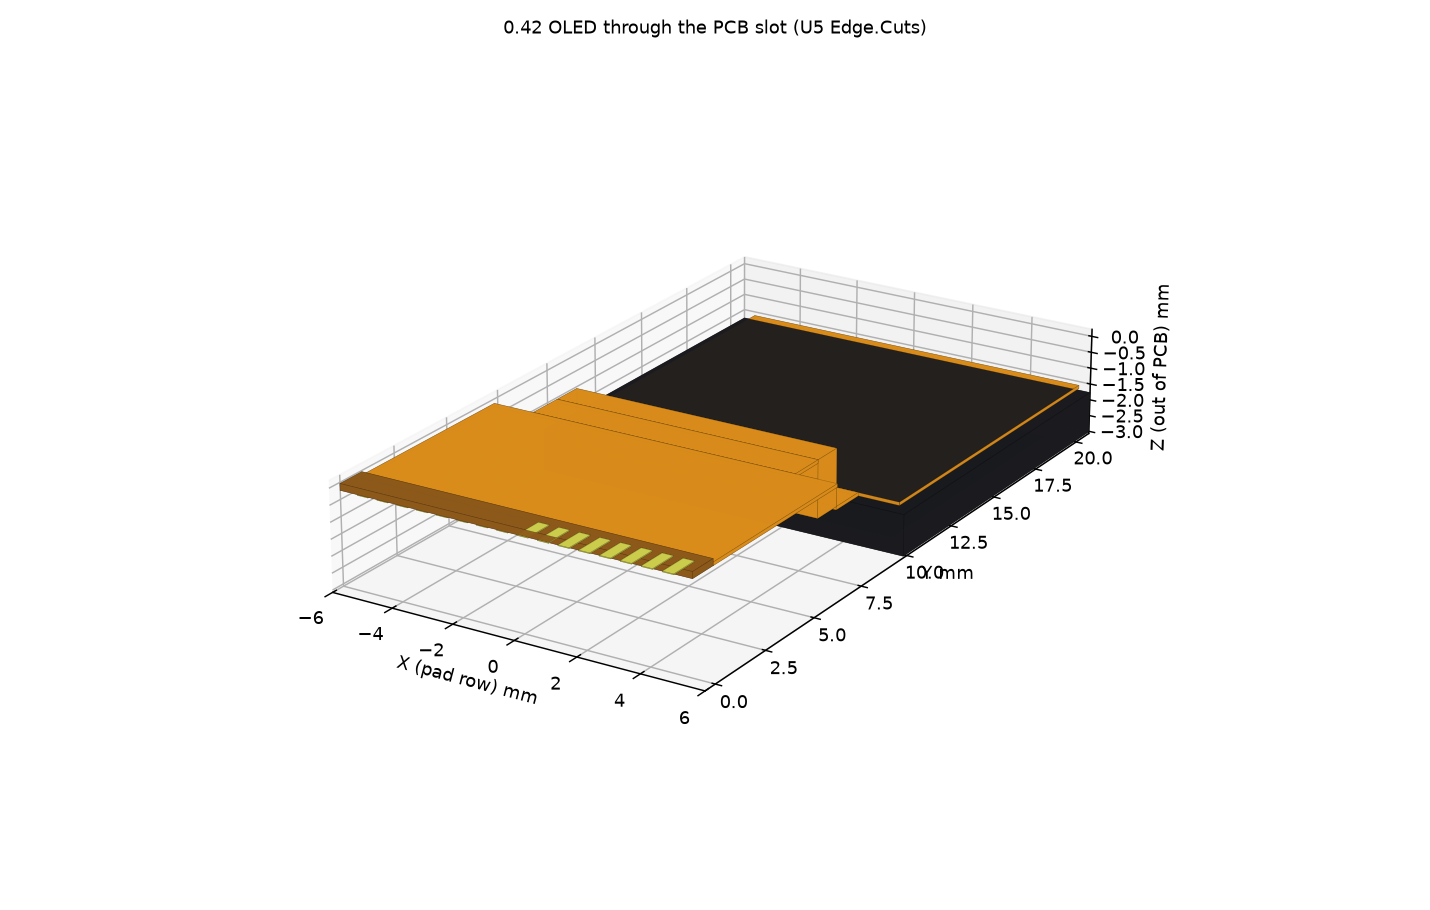
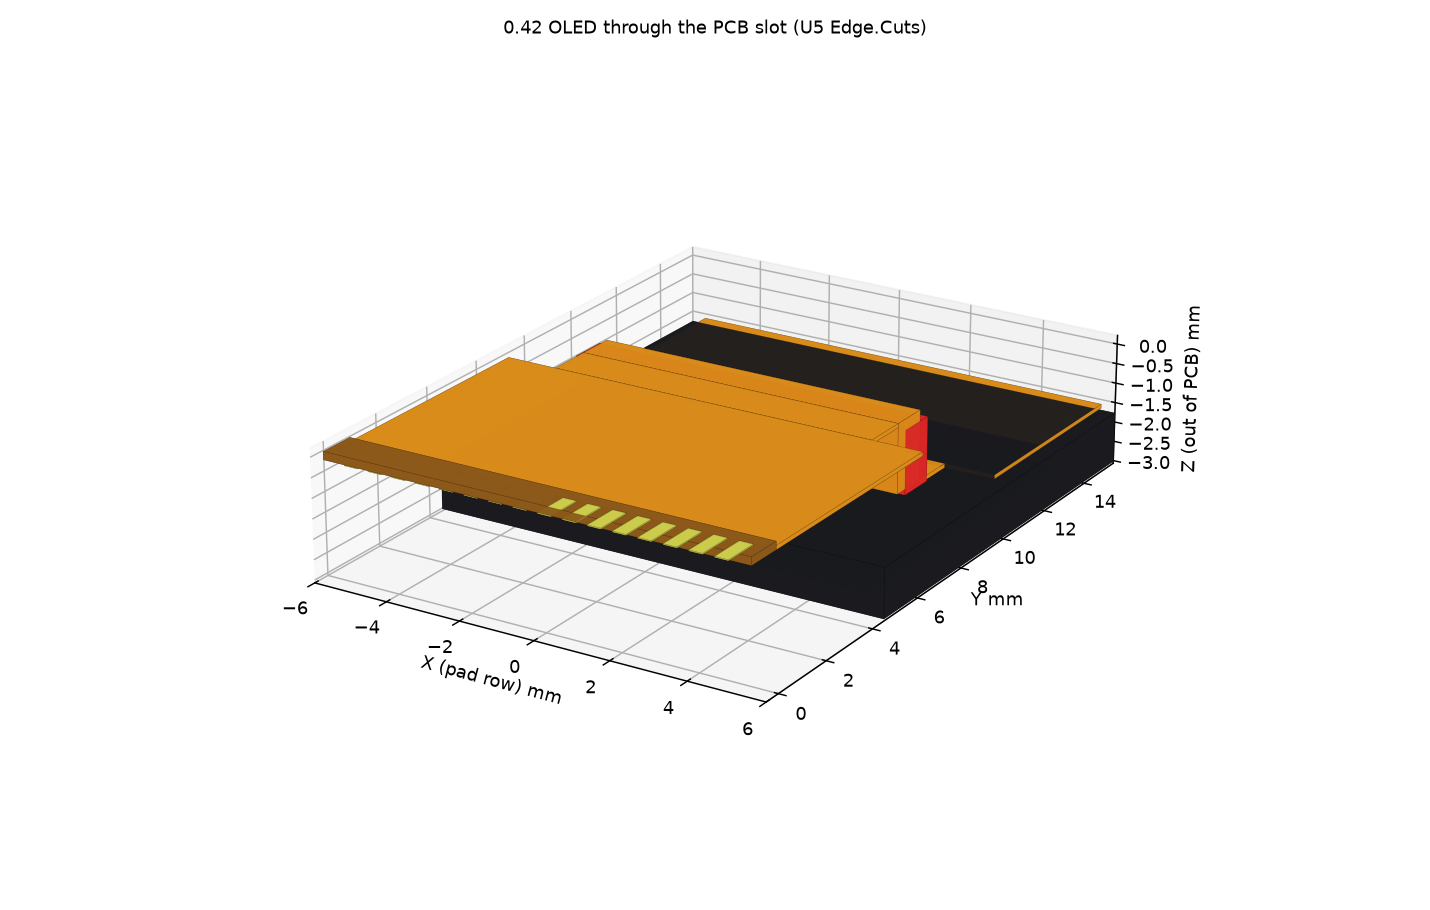
3d: OLED panel now sits OVER the board slot (centre 10 mm from the pads)
Previously the panel started 0.8 mm past the slot, so in 3D the opening showed
next to the panel. Correct arrangement: the FPC passes through the slot and the
glass is glued over it, hiding the opening.

  panel local y 4.5 .. 15.5  (centre 10.0 mm from the pad row, per the annotation
                              r = 10 mm / theta = 0 deg)
  slot  local y 8.0 .. 9.0, x -4.5 .. 4.5  -> fully covered by the 12 x 11 panel
  FPC: pads -> narrow to 8.6 mm -> through the slot -> far side under the glass

Preview now draws the slot in red so the coverage can be checked at a glance.
Regenerated in place: U5 already points to OLED042_FPC16_slot.step, no PCB edit.

Changed region(s): [[0.2154, 0.2769, 0.8615, 0.8], [0.6769, 0.6462, 0.7077, 0.6769]]

diff --git a/Hardware/G474VC_Core/tools/make_oled042_model.py b/Hardware/G474VC_Core/tools/make_oled042_model.py
@@ -32,7 +32,7 @@ PANEL_OFF  = 0.05      # 屏体与 FPC 的胶层
 SLOT_Y     = 8.50      # 焊盘中心到板上开槽中心的距离(取 U5 封装内 Edge.Cuts 槽: y 8..9)
 SLOT_W     = 9.00      # 开槽宽度(U5 fp_poly x -4.5..4.5)
 SLOT_TAB_W = 8.60      # 穿孔处 FPC 收窄后的宽度(要 < SLOT_W)
-PANEL_Y0   = 9.80      # 穿板后屏体近端距焊盘中心的距离
+PANEL_Y0   = 4.50      # 屏体近端距焊盘中心（屏中心=10mm，正好盖住 y8~9 的开孔）
 OUTDIR     = r"D:\3phase_inverter\Hardware\G474VC_Core\libs\lcsc\3dmodels"
 
 def box_pts(x0,x1,y0,y1,z0,z1):
@@ -208,6 +208,12 @@ if __name__=="__main__":
         wp=os.path.join(OUTDIR,"OLED042_FPC16_%s.wrl"%variant)
         cq.exporters.export(q_boxes(m), sp)
         write_wrl(m, wp, title)
-        preview(m, os.path.join(OUTDIR,"OLED042_preview_%s.png"%variant), title)
+        mp=m
+        if variant=="slot":
+            # 预览里把板上开孔画成红色，便于核对"屏体是否盖住开孔"
+            import copy as _copy
+            mp=_copy.deepcopy(m)
+            mp.parts.append(((0.0, SLOT_Y, -BOARD_T/2), (SLOT_W, 1.0, BOARD_T), (0.85,0.15,0.15)))
+        preview(mp, os.path.join(OUTDIR,"OLED042_preview_%s.png"%variant), title)
         print("%-6s -> %s (%d B), %s (%d B)"%(variant, os.path.basename(sp), os.path.getsize(sp),
                                              os.path.basename(wp), os.path.getsize(wp)))
